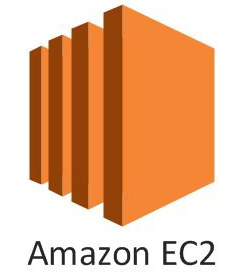
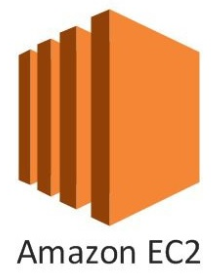
fix: ec2 이미지 꺠지던 것 새 이미지로 교체

diff --git a/index.html b/index.html
@@ -528,7 +528,7 @@
               <img src = "img/postgresql.png" class="fab fa-html5" width="55">
             </li>
             <li class="list-inline-item">
-              <img src = "img/ec2.png" class="fab fa-html5" width="55">
+              <img src = "img/ec2.PNG" class="fab fa-html5" width="55">
             </li>
             <li class="list-inline-item">
               <img src = "img/heroku.png" class="fab fa-html5" width="55">
